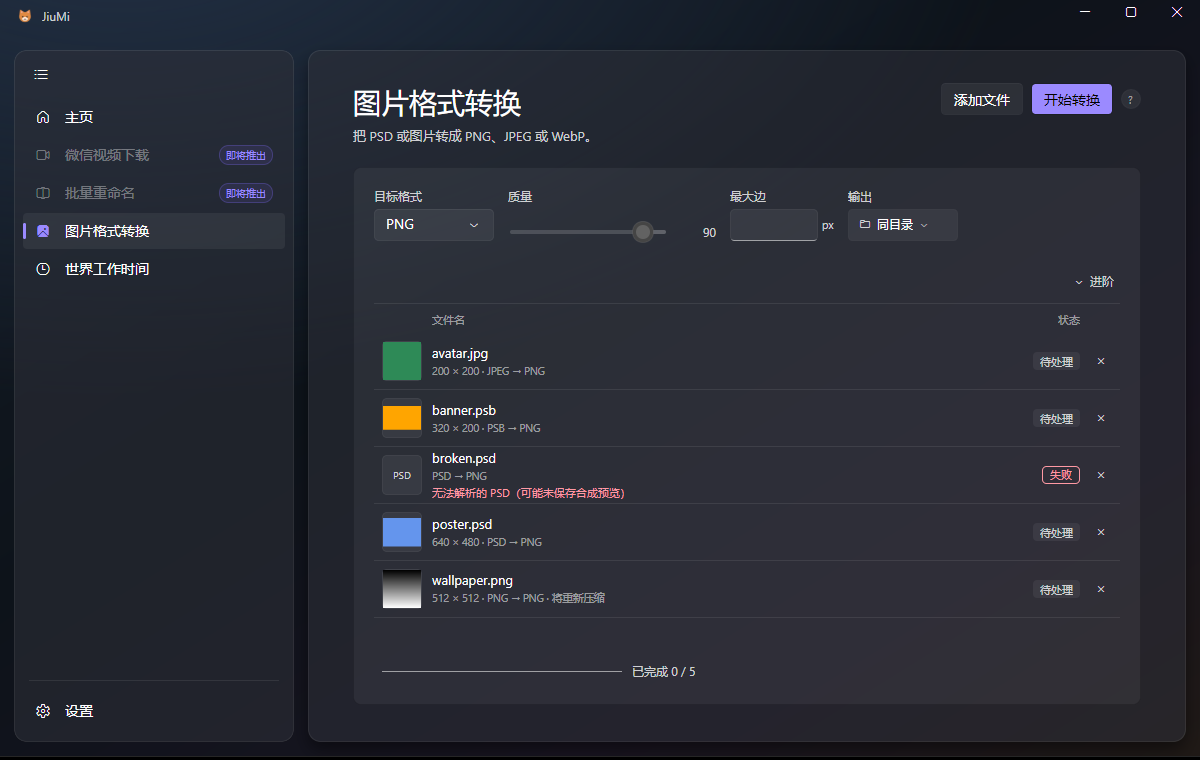
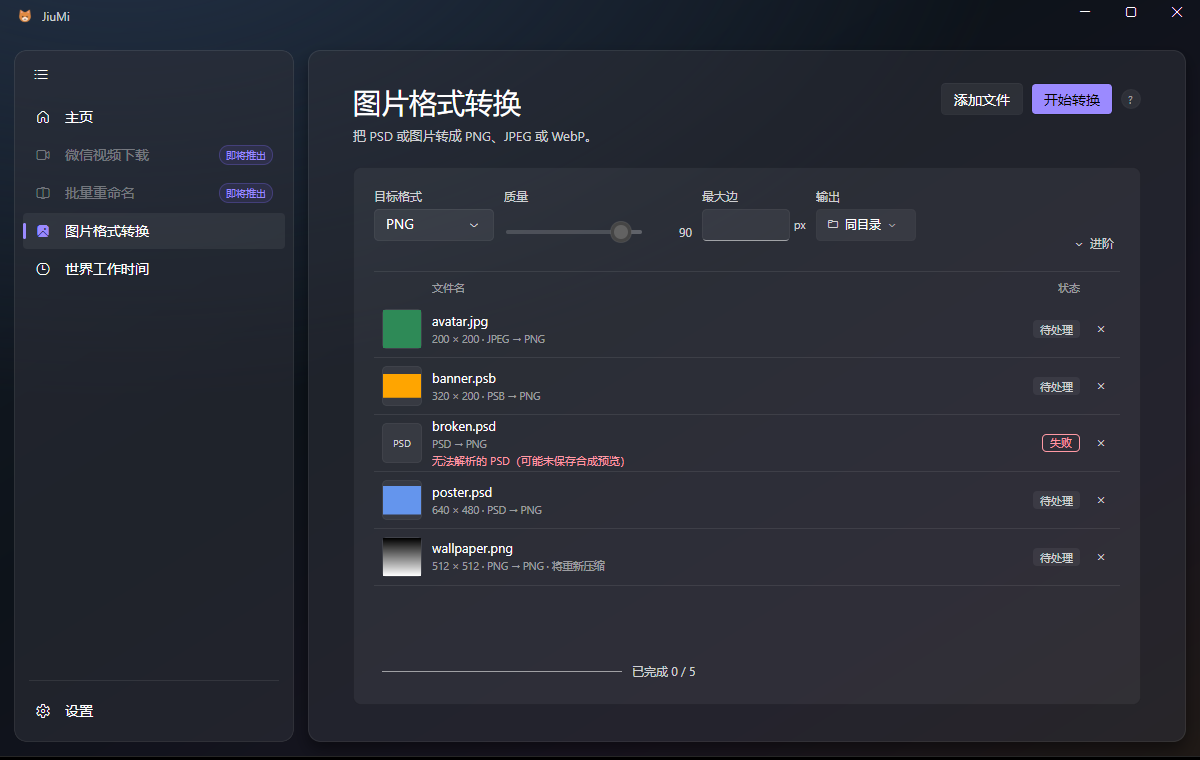
fix(image-conversion): filter advanced options by target format
Keep the advanced toggle right-aligned on the parameter row instead of
its own line, and tighten the parameter widths so the JPEG background,
output and toggle all fit together.

The advanced panel now only shows rows that apply to the target: WebP
lossy for WebP, PNG compression for PNG, and source metadata always.

diff --git a/docs/ui-spec.md b/docs/ui-spec.md
@@ -227,11 +227,11 @@ JiuMi 应用外壳的视觉与交互规格。跨模块的结构规则见 [`docs/
 - 主体是一张卡片（外边距上 22、内边距 20、圆角 8、`CardBackgroundFillColorDefaultBrush` + 1px `CardStrokeColorDefaultBrush`），自上而下为参数区、分隔线、文件列表、底栏。卡片高度铺满内容区剩余空间：列表占 `*` 行并在内部纵向滚动，文件少时卡片不收缩，底栏始终贴底。
 - 参数区（12px 标签 + 控件，行间距 12，可换行）：
   - 目标格式：`ComboBox`，宽 120，选项 PNG / JPEG / WebP。
-  - 质量：`Slider` 宽 160 + 右侧数值 40px 右对齐；仅目标格式为 JPEG/WebP 时可用，PNG 时置灰并保留数值。
+  - 质量：`Slider` 宽 140 + 右侧数值 40px 右对齐；仅目标格式为 JPEG/WebP 时可用，PNG 时置灰并保留数值。
   - 最大边：`TextBox` 宽 88 + 「px」后缀 11px 次文字色；空值表示原始尺寸，非法值用 11px `SystemFillColorCriticalBrush` 提示且禁用「开始转换」。
-  - JPG 底色：仅目标格式为 JPEG 时显示；32px 高、110 宽的下拉按钮，内容为 14 × 14 色块 + 当前色值 12px + Chevron，点击打开预设色与自定义色值。
-  - 输出：32px 高的下拉按钮（与 JPG 底色同款描边和底），内容为文件夹图标 + 「同目录」或目录名（`CharacterEllipsis`，文字最大宽 170）+ Chevron；最小宽 110，点击打开「使用源目录 / 选择文件夹」。
-  - 进阶：参数区下方、右对齐的独立一行（Chevron 图标 +「进阶」12px），不参与参数换行。展开后在参数区下方追加一个内嵌面板（`SubtleFillColorSecondaryBrush` 底、圆角 8、内边距 14 10、行高 32、行距 8）：左侧 12px 次文字色标签，右侧控件右对齐；WebP 有损与保留源元数据用 `ToggleSwitch`（不显示 On/Off 文字），PNG 压缩级别用 `Slider` 0–9 + 右侧数值。不适用的行置灰，折叠状态不记忆。
+  - JPG 底色：仅目标格式为 JPEG 时显示；32px 高、100 宽的下拉按钮，内容为 14 × 14 色块 + 当前色值 12px + Chevron，点击打开预设色与自定义色值。
+  - 输出：32px 高的下拉按钮（与 JPG 底色同款描边和底），内容为文件夹图标 + 「同目录」或目录名（`CharacterEllipsis`，文字最大宽 170）+ Chevron；最小宽 100，点击打开「使用源目录 / 选择文件夹」。
+  - 进阶：与参数同一行、右对齐（Chevron 图标 +「进阶」12px），不单独占行。展开后在参数区下方追加一个内嵌面板（`SubtleFillColorSecondaryBrush` 底、圆角 8、内边距 14 10、行高 32、行距 8）：左侧 12px 次文字色标签，右侧控件右对齐。内容按目标格式选择显示：WebP 有损仅目标为 WebP、PNG 压缩级别仅目标为 PNG，保留源元数据始终显示；不适用的行直接隐藏。折叠状态不记忆。
 - 文件列表：行高 56，行内边距 8 0，行间 1px `DividerStrokeColorDefaultBrush`。
   - 缩略图 40 × 40、圆角 4、1px `ControlStrokeColorDefaultBrush`；未出图时显示格式文字 10px 次文字色。仅等比缩小，不放大，不裁剪。
   - 主行文件名 13px，超长 `CharacterEllipsis`；次行 10.5px `TextFillColorTertiaryBrush`，格式「宽 × 高 · 源格式 → 目标格式」。
